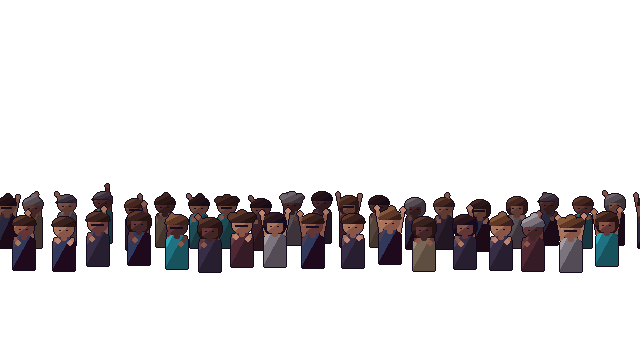
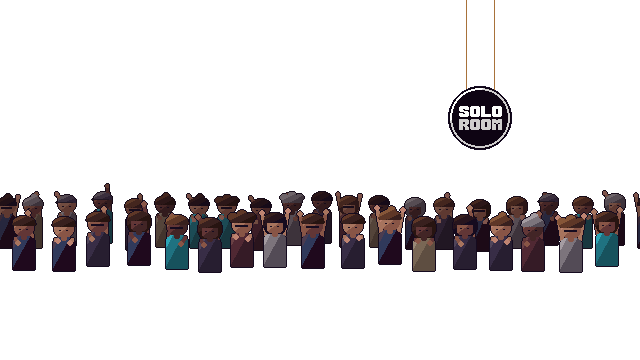
Tulum world: round SOLO ROOM sign hanging above the crowd
Claude-Session: https://claude.ai/code/session_0183h25RAJEGsbFMcKsRqEiK

Changed region(s): [[0.6875, 0.2139, 0.8125, 0.4278]]

diff --git a/tools/world_solomun.py b/tools/world_solomun.py
@@ -7,7 +7,7 @@ sprites. Every layer repeats seamlessly sideways.
 Layers (back to front):
   roof.png       the inside of the thatched roof with rafters, tie beams and far lamps (opaque)
   lamps.png      big wicker lamps hanging closer to the camera (transparent)
-  crowd-0..3.png the dancing crowd, 4 frames of a loop (transparent)
+  crowd-0..3.png the dancing crowd, 4 frames of a loop, with the SOLO ROOM sign above it (transparent)
 
 Run from the repo root:  python3 tools/world_solomun.py   (needs Pillow and numpy)
 """
@@ -272,6 +272,56 @@ def dancer(c, x, y, look, frame, phase, move, scale=1.0):
     c.paste(p, 0, 0)
 
 
+# ---------- SOLO ROOM sign (hangs above the crowd, in the crowd layer) ----------
+
+GLYPHS = {
+    'S': [' ######.', '########', '###..###', '####....', ' ######.', '....####', '###..###', '########', '.######.'],
+    'O': [' ######.', '########', '###..###', '###..###', '###..###', '###..###', '###..###', '########', '.######.'],
+    'L': ['###.....', '###.....', '###.....', '###.....', '###.....', '###.....', '###.....', '########', '########'],
+    'R': ['#######.', '########', '###..###', '###..###', '#######.', '######..', '###.###.', '###..###', '###..###'],
+    'M': ['###..###', '########', '########', '##.##.##', '###..###', '###..###', '###..###', '###..###', '###..###'],
+}
+SIGN_X, SIGN_Y, SIGN_R = 480, 118, 31          # centre and radius in the crowd layer
+SIGN_INK = ['#9a96a6', '#cfcdcd', '#fdfefd']    # ring and letters, slightly dimmed for the background
+
+
+def big(glyph):
+    """Stretch an 8x9 glyph to 10x11 by doubling a column on each side and a row top and bottom."""
+    rows = [r[:2] + r[2] + r[2:6] + r[5] + r[6:] for r in glyph]
+    return rows[:2] + [rows[1]] + rows[2:7] + [rows[7]] + rows[7:]
+
+
+def word(c, text, cx, y, col):
+    width = len(text) * 10 + (len(text) - 1)
+    x = int(cx - width / 2)
+    for ch in text:
+        for gy, row in enumerate(big(GLYPHS[ch])):
+            for gx, v in enumerate(row):
+                if v == '#':
+                    c.px(x + gx, y + gy, col)
+        x += 11
+
+
+def solo_room_sign(c):
+    """A round black sign with a white ring and SOLO ROOM, after the Boiler Room logo, on two cords."""
+    cx, cy, r = SIGN_X, SIGN_Y, SIGN_R
+    for x in (cx - 14, cx + 14):
+        for y in range(0, cy - r + 6):
+            c.px(x, y, WOOD[3])
+    disc = c.ellipse_mask(cx, cy, r, r)
+    put(c, disc, '#0e0413')
+    ring = disc & ~c.ellipse_mask(cx, cy, r - 3, r - 3)
+    put(c, ring & c.ellipse_mask(cx, cy, r - 1, r - 1), SIGN_INK[1])
+    # A warm glint from the lamps on the top-left of the ring.
+    ys, xs = np.mgrid[0:c.h, 0:c.w]
+    put(c, ring & c.ellipse_mask(cx, cy, r - 1, r - 1) & ((xs - cx) + (ys - cy) < -r * 0.9), SIGN_INK[2])
+    word(c, 'SOLO', cx + 1, cy - 12, SIGN_INK[2])
+    word(c, 'ROOM', cx + 1, cy + 1, SIGN_INK[1])
+    p = np.pad(disc, 1)
+    n = p[:-2, 1:-1] | p[2:, 1:-1] | p[1:-1, :-2] | p[1:-1, 2:]
+    put(c, ~disc & n, OUTLINE)
+
+
 def crowd(frame):
     M = 40                                           # margin; whatever spills over wraps to the other side
     c = Canvas(W + 2 * M, H)
@@ -292,6 +342,7 @@ def crowd(frame):
     c.a[m, :3] = (c.a[m, :3] * 0.85 + np.array(rgb(THATCH[0])) * 0.15).astype(np.uint8)
     out = Canvas(W, H)
     out.a[:] = c.a[:, M:M + W]
+    solo_room_sign(out)
     for src, dst in ((slice(0, M), slice(W - M, W)), (slice(M + W, W + 2 * M), slice(0, M))):
         piece = c.a[:, src]
         m = piece[..., 3] > 0
